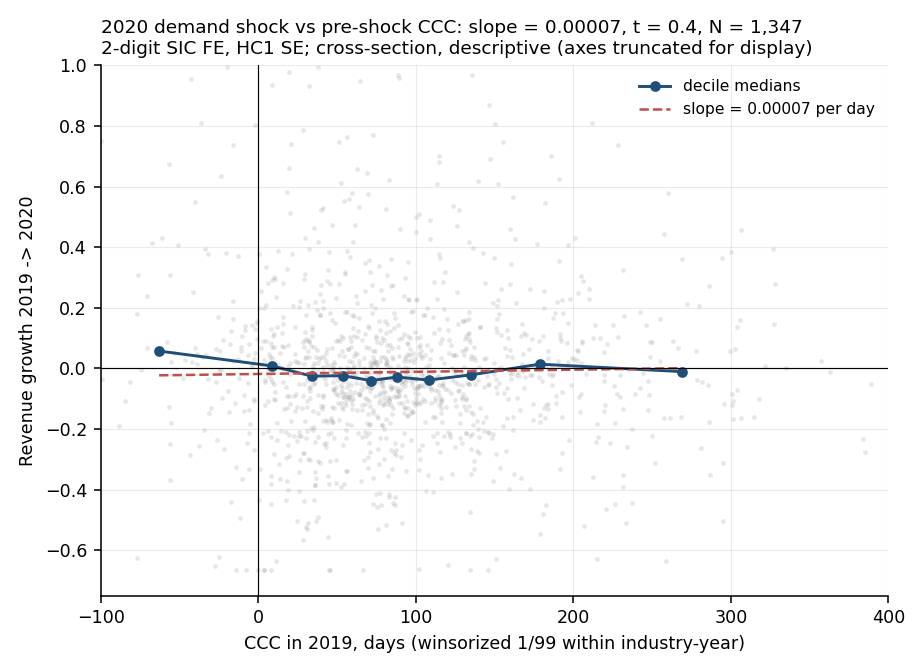
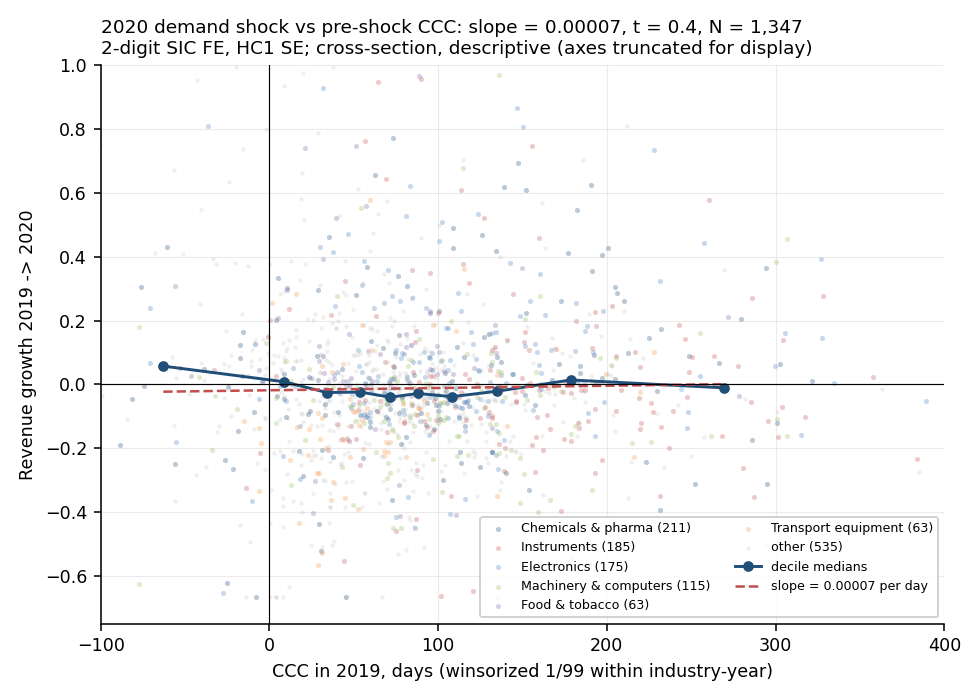
Document missing inventory-write-down outcome; label industries in 2020 shock figure
- DECISIONS D-12 / LIMITATIONS / README: write-down tags were not cached and
  source zips were deleted, so that charter outcome is not measured
- fig4 colors points by SIC division with labeled legend (charter 5.4)

diff --git a/src/figures.py b/src/figures.py
@@ -25,6 +25,7 @@ TABLES = OUT / "tables"
 
 sys.path.insert(0, str(ROOT / "src"))
 from analysis import add_winsorized, plausibility_screen, winsorize  # noqa: E402
+from tags import sic_division  # noqa: E402
 
 plt.rcParams.update({
     "figure.dpi": 140, "savefig.dpi": 140, "font.size": 9,
@@ -136,11 +137,21 @@ def fig_ccc_roa(p: pd.DataFrame, res: dict) -> Path:
 
 def fig_shock_2020(p: pd.DataFrame, res: dict) -> Path:
     d = p[p["fiscal_year"] == 2020].dropna(
-        subset=["sales_growth", "ccc_w_lag", "industry", "sic2"]).copy()
+        subset=["sales_growth", "ccc_w_lag", "industry", "sic2", "sic"]).copy()
     # same left-hand side as the headline cross-section
     d["_y"] = winsorize(d["sales_growth"], [d["sic2"]], min_group=10**9)
-    fig, ax = plt.subplots(figsize=(6.6, 4.8))
-    ax.scatter(d["ccc_w_lag"], d["_y"], s=6, alpha=0.18, color=C_GREY, linewidths=0)
+    d["division"] = d["sic"].map(sic_division)
+    fig, ax = plt.subplots(figsize=(7.0, 5.0))
+    top = d["division"].value_counts().head(6).index.tolist()
+    palette = ["#1f4e79", "#c0504d", "#4f81bd", "#9bbb59", "#8064a2", "#f79646"]
+    for i, div in enumerate(top):
+        sub = d[d["division"] == div]
+        ax.scatter(sub["ccc_w_lag"], sub["_y"], s=7, alpha=0.30,
+                   color=palette[i], linewidths=0,
+                   label=f"{div} ({len(sub)})")
+    rest = d[~d["division"].isin(top)]
+    ax.scatter(rest["ccc_w_lag"], rest["_y"], s=5, alpha=0.12,
+               color=C_GREY, linewidths=0, label=f"other ({len(rest)})")
     q = pd.qcut(d["ccc_w_lag"], 10, duplicates="drop")
     bm = d.groupby(q).agg(x=("ccc_w_lag", "median"), y=("_y", "median"))
     ax.plot(bm["x"], bm["y"], "o-", color=C_MAIN, ms=4.5, lw=1.5, label="decile medians")
@@ -158,7 +169,7 @@ def fig_shock_2020(p: pd.DataFrame, res: dict) -> Path:
                  f"N = {res['shock_2020']['revenue_growth']['n']:,}\n"
                  f"2-digit SIC FE, HC1 SE; cross-section, descriptive "
                  f"(axes truncated for display)", fontsize=9.5, loc="left")
-    ax.legend(frameon=False, fontsize=8, loc="upper right")
+    ax.legend(frameon=True, framealpha=0.9, fontsize=6.5, loc="lower right", ncol=2)
     fig.tight_layout()
     pth = FIGS / "fig4_shock_2020.png"
     fig.savefig(pth)

diff --git a/README.md b/README.md
@@ -156,9 +156,14 @@ pre-shock CCC is the winsorized lagged value. Descriptive only.
   flat.
 
 Read together: if CCC mattered for resilience, the 2020 revenue and cash
-outcomes are where it should show up most clearly, and they do not. The 2022
-margin result is the only one that would survive a casual read, and its
-non-monotonicity argues against over-interpreting it.
+outcomes are a natural place to look, and they are null. The 2022 margin result
+is the only one that would survive a casual read, and its non-monotonicity
+argues against over-interpreting it.
+
+One charter outcome is **absent**: inventory write-downs. The cached tag slice
+does not contain write-down tags and the source zips were deleted, so recovering
+them requires re-downloading the quarterly extracts (`DECISIONS.md → D-12`). The
+resilience evidence here is profitability, revenue, cash and gross margin only.
 
 ## What this does not prove
 
@@ -170,6 +175,8 @@ non-monotonicity argues against over-interpreting it.
   identified here and is deliberately not computed.
 - **No market test.** Without CRSP/Compustat there are no returns or event
   windows; "resilience" is accounting profitability and cash only.
+- **No inventory write-down outcome.** Write-down tags were never extracted;
+  recovering them needs a cache rebuild (`DECISIONS.md → D-12`).
 - **The shock exercises are cross-sections.** One observation per firm plus
   industry FE cannot separate CCC from an unobserved firm trait correlated with
   it.

diff --git a/DECISIONS.md b/DECISIONS.md
@@ -159,3 +159,20 @@ touching the code.
 - No market returns: no CRSP/Compustat, so no abnormal-return test.
 - No attempt to make the panel "representative" of all US listed firms. It is
   the population of 10-K/20-F filers with usable trade working capital.
+
+---
+
+## D-12. Inventory write-downs are not measured
+
+The charter's resilience question (§1.3) lists inventory write-downs alongside
+profitability and cash. This pipeline does **not** measure them.
+
+`download_sec.py` slices `num.txt` to `TAG_UNIVERSE` at download time. Write-down
+tags (`InventoryWriteDown`, `InventoryImpairmentLoss`, …) are not in that
+universe, so they were never cached, and the 64 source zips were deleted after
+extraction. Recovering them means re-downloading the quarterly extracts
+(roughly 5.4 GB) and extending `tags.py` plus `build_panel.py`.
+
+Consequence: the 2020 and 2022 exercises cover revenue growth, ROA, cash/assets
+and gross-margin change, but not write-downs. This is a gap in the resilience
+answer, stated in `LIMITATIONS.md` and `README.md`, not a silent omission.

diff --git a/LIMITATIONS.md b/LIMITATIONS.md
@@ -39,6 +39,10 @@
   The panel is therefore US-listed, mostly US-domiciled.
 - **Restatements.** "Latest filing wins" only over filings up to 2025-12-31.
   Later amendments are not captured until the cache is extended.
+- **Inventory write-downs are not measured.** They are one of the charter's
+  three resilience outcomes, but the cached tag slice does not contain
+  write-down tags and the source zips were deleted. Recovering them requires a
+  re-download of the quarterly extracts (`DECISIONS.md → D-12`).
 - **No quarterly data.** Seasonality is invisible. A December-ending retailer
   and a January-ending one are compared at their own year-end, which is the
   right point for annual ratios but hides peak-vs-trough working capital.
